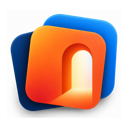
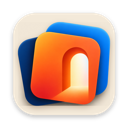
App 圖示改成米白底板（#F3E9D9），主體放大到佔底板九成

diff --git a/scripts/icon/make-icon.py b/scripts/icon/make-icon.py
@@ -1,0 +1,36 @@
+#!/usr/bin/env python3
+"""App icon: the stacked arch cards on a cream tile (macOS icon grid).
+
+用法：python3 scripts/icon/make-icon.py <輸出的 1024 PNG>
+主體來自 scripts/icon/cards-1024.png（cards-source.png 去白底後的版本）。
+"""
+import sys
+from PIL import Image, ImageDraw, ImageFilter
+
+CREAM = (0xF3, 0xE9, 0xD9, 255)
+SIDE, BODY, RADIUS = 1024, (100, 100, 924, 924), 185
+FILL = 0.9  # 主體佔底板的比例
+
+out = sys.argv[1]
+art = Image.open("scripts/icon/cards-1024.png")
+art = art.crop(art.getchannel("A").point(lambda v: 255 if v > 200 else 0).getbbox())
+scale = FILL * (BODY[2] - BODY[0]) / max(art.size)
+art = art.resize((round(art.size[0] * scale), round(art.size[1] * scale)), Image.LANCZOS)
+
+canvas = Image.new("RGBA", (SIDE, SIDE), (0, 0, 0, 0))
+shade = Image.new("L", (SIDE, SIDE), 0)
+ImageDraw.Draw(shade).rounded_rectangle((BODY[0], BODY[1] + 14, BODY[2], BODY[3] + 14), RADIUS, fill=70)
+canvas.paste(Image.new("RGBA", (SIDE, SIDE), (0, 0, 0, 255)), (0, 0), shade.filter(ImageFilter.GaussianBlur(17)))
+
+tile = Image.new("RGBA", (SIDE, SIDE), CREAM)
+ox, oy = (SIDE - art.size[0]) // 2, (SIDE - art.size[1]) // 2
+under = Image.new("L", (SIDE, SIDE), 0)
+under.paste(art.getchannel("A").point(lambda v: int(v * 0.35)), (ox, oy + 18))
+tile.paste(Image.new("RGBA", (SIDE, SIDE), (90, 50, 20, 255)), (0, 0), under.filter(ImageFilter.GaussianBlur(22)))
+tile.alpha_composite(art, (ox, oy))
+
+mask = Image.new("L", (SIDE, SIDE), 0)
+ImageDraw.Draw(mask).rounded_rectangle(BODY, RADIUS, fill=255)
+canvas.paste(tile, (0, 0), mask)
+ImageDraw.Draw(canvas).rounded_rectangle(BODY, RADIUS, outline=(0, 0, 0, 20), width=2)
+canvas.save(out)
